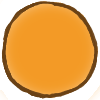
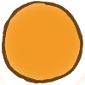
level select uusiksi

diff --git a/public_html/js/layer.js b/public_html/js/layer.js
@@ -90,11 +90,11 @@ function SelectionLayer() {
 		}
 	});
 	
-	var radius = 50;
-	var gap = 80;
+	var radius = 40;
+	var gap = 50;
 	var amount = amountOfLevels();
-	var x = (ctx.canvas.width / 2) - (amount-1) * (radius+gap) / 2;
-	var y = 470;
+	var x = (ctx.canvas.width / 2) - (amount-1) * (radius+gap) / 2 + 10;
+	var y = 490;
 	
 	for (var i = 0; i < amount; ++i) {
 		this.buttons.push(createButton({
@@ -107,7 +107,8 @@ function SelectionLayer() {
 				game.layer.push(createLevel(levelNumber));
 			}
 		}));
-		x += radius + gap;
+		x += radius + gap - i;
+		y -= 1.5 * i * x * 0.005;
 	}
 	
 	this.logic = function() {
@@ -218,9 +219,11 @@ function LevelLayer(info) {
 					cat.m_angularVelocity = 70;
 			});
 		},
-		function(levelLayer) {		// 2-3 cats drop from heaven
+		function(levelLayer) {		// 2-3 (or 20) cats drop from heaven
 			var moarCats = 2;
-			if (Math.random() < 0.3)
+			if (Math.random() < 0.01)
+				moarCats = 30;
+			else if (Math.random() < 0.1)
 				moarCats = 3;
 			
 			for (var i = 0; i < moarCats; ++i) {
@@ -229,7 +232,7 @@ function LevelLayer(info) {
 				levelLayer.cats.push(cat);
 			}
 		},
-		function(levelLayer) {
+		function(levelLayer) {		// Create random propeller
 			var propellerDef = {
 				x: Math.random()*600+100,
 				y: Math.random()*435+60,
@@ -238,7 +241,7 @@ function LevelLayer(info) {
 			levelLayer.props.push(createPropeller(propellerDef));
 		},
 		
-		function(levelLayer) {
+		function(levelLayer) {		// Side gravity
 			var multiplier = Math.random() + 2;
 			
 			if (Math.random() < 0.5)
@@ -260,9 +263,10 @@ function LevelLayer(info) {
 		var cat;
 		
 		this.moveHand();
-
-		if (!this.gameLost)
+		
+		if (!this.gameLost) {
 			this.eventTimer -= 1; // TÄMÄ KUULUU OLLA 1 ----------------------
+		}
 		
     if (this.eventTimer <= 0 && this.events.length > 0) {
 			if (this.goingEventCallBack !== null) {
@@ -527,7 +531,6 @@ function createContactListener(self) {
 		};
 		return listener;
 	};
-
 
 
 

diff --git a/public_html/js/render.js b/public_html/js/render.js
@@ -179,7 +179,7 @@ function drawBackground(gameState) {
 	ctx.restore();
 }
 
-function drawButtonImage(name, x, y) {
+function drawButtonImage(name, x, y, width, height) {
 	ctx.save();
 	var img = game.images.buttons[name];
 	ctx.drawImage(img, x, y);
